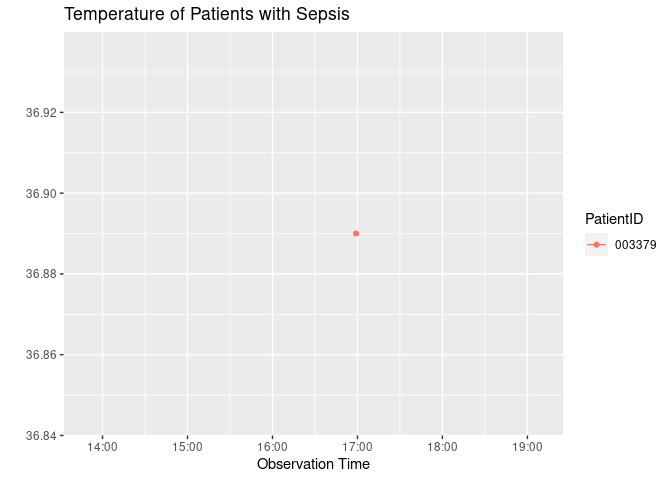
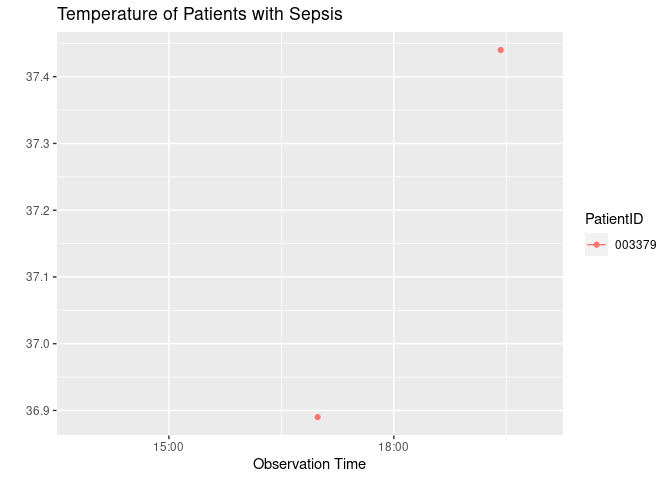
Updated report

diff --git a/README.md b/README.md
@@ -8,11 +8,11 @@ Yansong Wen
 
 \#TASK 4
 
-    [1] "2023-04-10 19:14:35 UTC"
+    [1] "2023-04-10 20:19:16 UTC"
 
 | PatientID |  HR | Temp | Resp |
 |:----------|----:|-----:|-----:|
-| 003379    |  78 |   NA |   23 |
+| 003379    |  80 |   NA |   32 |
 
 ![](README_files/figure-commonmark/unnamed-chunk-4-1.png)
 
@@ -24,54 +24,54 @@ Yansong Wen
 |:----------|----:|------:|------:|
 | 000098    |   0 | -0.08 |     2 |
 | 000135    |  10 |  0.10 |     0 |
-| 000150    |   6 |    NA |     1 |
-| 000536    |   3 |    NA |    NA |
-| 000958    |   0 |    NA |     3 |
-| 001241    |  -1 | -0.10 |     0 |
-| 001553    |   0 | -0.10 |     0 |
+| 000150    |   3 |    NA |    -3 |
+| 000536    |  -2 |    NA |     0 |
+| 000958    |  -3 |    NA |    -2 |
+| 001241    |   3 | -0.20 |     3 |
+| 001553    |   0 |  0.10 |    NA |
 | 001850    |  NA |    NA |    NA |
-| 001903    |   3 |  0.00 |     2 |
+| 001903    |  -4 |  0.10 |    -1 |
 | 002116    | -50 |    NA |    -4 |
-| 002171    |   6 |    NA |     2 |
+| 002171    |  -1 | -0.28 |     1 |
 | 002247    | -24 |    NA |     6 |
-| 002321    |  -5 |    NA |     3 |
-| 002480    |   1 |    NA |     1 |
-| 002819    |   8 |    NA |    -4 |
-| 002945    |   2 |  0.00 |     4 |
-| 003379    |   1 |    NA |    -3 |
-| 004127    |   1 |    NA |   -10 |
-| 004201    |  -1 |    NA |     1 |
+| 002321    |  -2 |    NA |    -4 |
+| 002480    | -17 |    NA |     0 |
+| 002819    |  -4 |    NA |     1 |
+| 002945    |  -6 | -0.30 |    -4 |
+| 003379    |   2 |    NA |    10 |
+| 004127    |   5 |    NA |     1 |
+| 004201    |   3 |    NA |     1 |
 | 004402    |  NA |    NA |    NA |
 | 004768    |  NA |    NA |    NA |
-| 004772    |   5 |    NA |     8 |
+| 004772    |  -3 |    NA |    -6 |
 | 004902    |  -1 |    NA |    NA |
-| 004927    |   3 |    NA |     8 |
+| 004927    |   5 |    NA |     4 |
 | 004978    |  -4 |  0.10 |    -1 |
-| 005062    |   3 |    NA |    -4 |
+| 005062    |   3 |    NA |     3 |
 | 005131    |   5 |  0.00 |    -1 |
 | 005135    |  NA |    NA |    NA |
 | 005854    |  -1 | -0.40 |    -2 |
-| 005858    |   3 |    NA |     3 |
+| 005858    |  NA |    NA |    NA |
 | 005946    |   3 |    NA |    -3 |
 | 005980    |  -8 |    NA |     0 |
-| 006349    |   0 |  0.00 |    -2 |
-| 006534    |   7 |    NA |    -4 |
+| 006349    |  13 |  0.00 |     0 |
+| 006534    |  11 |    NA |     5 |
 | 006827    |   0 |  0.15 |     2 |
-| 006987    |  -1 |  0.10 |    -4 |
-| 007029    | -31 |    NA |     1 |
+| 006987    |  -1 |  0.10 |    -2 |
+| 007029    |  10 |    NA |     2 |
 | 007041    |  NA |    NA |    NA |
 | 007541    |   0 |    NA |     2 |
 | 007567    |  -5 |    NA |   -10 |
 | 007586    |   1 |  0.20 |    -2 |
-| 007742    |   7 |  0.10 |     8 |
-| 007753    |   2 |    NA |     2 |
-| 008527    |   3 |    NA |     1 |
+| 007742    |   0 |  0.00 |     1 |
+| 007753    |   7 |    NA |    -2 |
+| 008527    |  -1 |    NA |    -1 |
 | 008638    |  -1 |    NA |     0 |
-| 008639    |   0 |  0.20 |    -2 |
-| 008828    |   0 |  0.00 |     0 |
-| 009301    |  -1 |  0.10 |    -2 |
-| 009610    | -11 |    NA |    -2 |
-| 009821    |  -2 |    NA |     5 |
+| 008639    |   0 |  0.00 |     0 |
+| 008828    |  -3 | -0.20 |     5 |
+| 009301    |  -5 |    NA |    -2 |
+| 009610    |  13 |    NA |     0 |
+| 009821    |   0 |    NA |    -4 |
 
 Changes of heart rate, temperature, and respiratory rate for all
 patients in the lasted 2 observations
